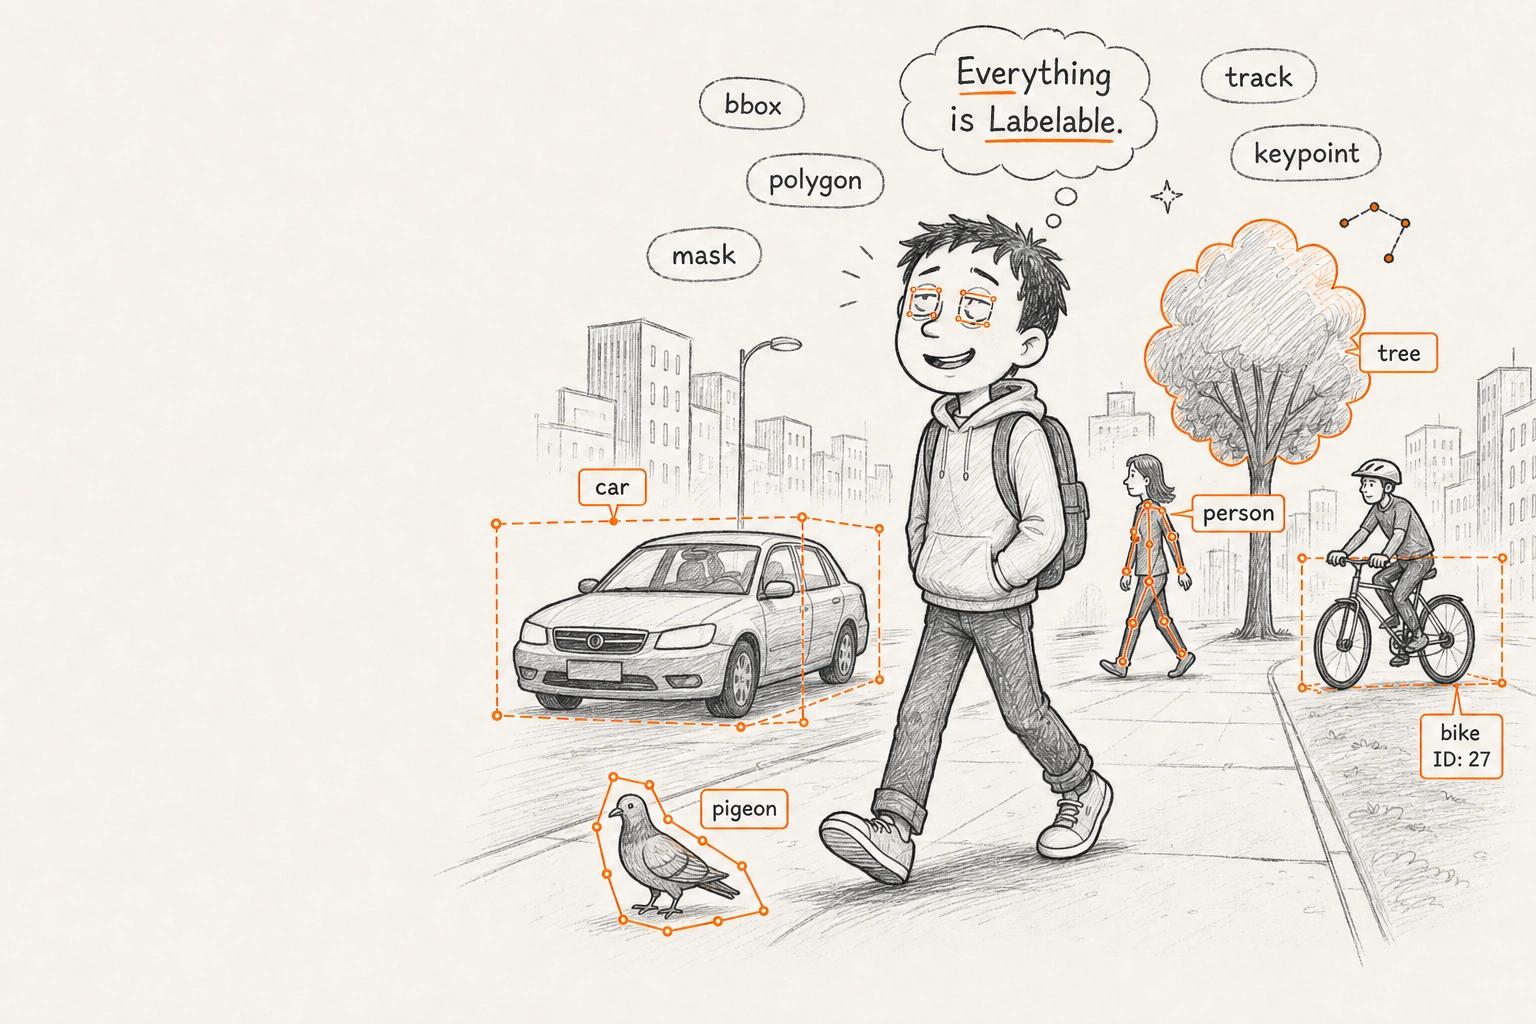
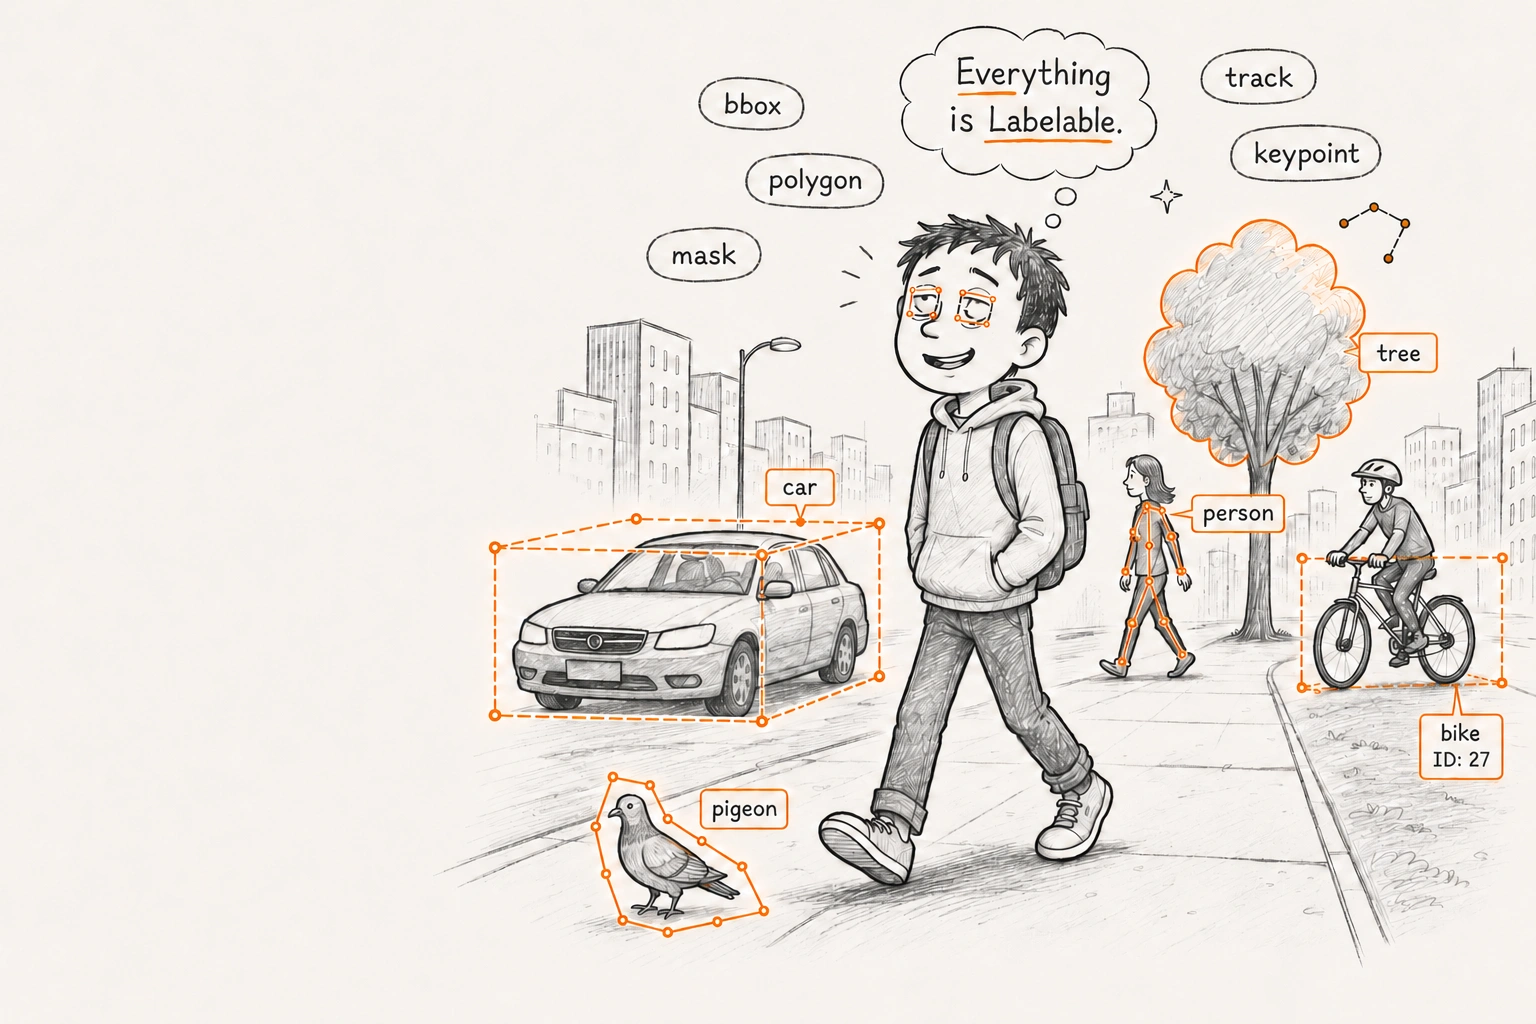
Update GitHub star prompt illustration (#11494)

diff --git a/changelog.d/20261117_github_star_prompt_image.md b/changelog.d/20261117_github_star_prompt_image.md
@@ -1,0 +1,4 @@
+### Changed
+
+- Updated the illustration in the GitHub star prompt.
+  (<https://github.com/cvat-ai/cvat/pull/11494>)
